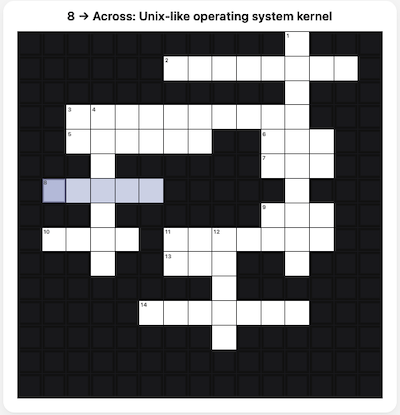
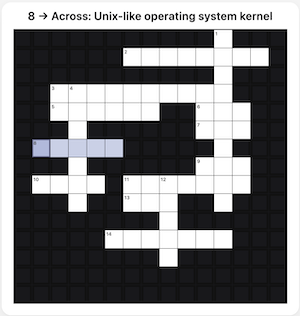
CSS index page

Changed region(s): [[0.03, 0.0285, 0.96, 0.9684]]

diff --git a/crossword/static/crossword/indexStyle.css b/crossword/static/crossword/indexStyle.css
@@ -34,7 +34,6 @@ main {
 }
 
 .hero {
-  line-height: 1.5;
   text-align: left;
 }
 
@@ -47,14 +46,13 @@ main {
     font-size: clamp(1.9rem, 3.1vw, 2.3rem);
     line-height: 1.2;
     font-weight: 600;
-    margin-bottom: var(--space-md);
+    margin-bottom: 1.5rem;
 }
 
 .hero p.subheadline {
   font-size: clamp(1.1rem, 1.4vw, 1.2rem);
   color: #4b5563;
-  line-height: 1.5;
-  margin-bottom: var(--space-lg);
+  margin-bottom: 1.5rem;
 }
 
 .subheadline .underline {
@@ -64,8 +62,7 @@ main {
 .hero-meta {
   display: flex;
   flex-direction: column;
-  gap: var(--space-xs);
-
+  gap: var(--space-sm);
   font-size: 1.05rem;
 }
 
@@ -87,8 +84,7 @@ main {
 
 .cta {
   display: inline-block;
-  margin-top: 0.75rem;
-  margin-bottom: 0.5rem;
+  margin: 1.2rem 0;
 
   padding: 0.45rem 0.8rem;
   border-radius: 8px;
@@ -103,29 +99,28 @@ main {
   background: #1f2937;
 }
 
-.hero-figure {
-  margin: 0;
-  padding: 0;
+/* Link wraps screenshot. Reason link has clamp and screenshot has 100% width*/
+.hero-link {
+  display: block;
+  width: 300px;
 }
 
-.hero-figure .hero-screenshot {
+.hero-screenshot {
   display: block;
-  width: clamp(200px, 35%, 400px);
+  width: 100%;
   border: 1px solid #e5e7eb;
   border-radius: 6px;
   box-shadow: 0 0 10px rgba(0,0,0,0.05);
-  margin-top: 0.75rem;
   transition: transform 0.15s ease, filter 0.15s ease;
 }
 
 .hero-screenshot:hover {
-  transform: scale(1.02);
+  transform: scale(1.03);
 }
 
 .puzzle-list {
   padding: 1rem 0;
   border-bottom: 1px solid #e5e7eb;
-  line-height: 1.5;
 }
 
 .puzzle-list h2 {
@@ -147,6 +142,7 @@ main {
 
   text-decoration: none;
   color: inherit;
+  padding: .5rem 0;
 }
 
 .puzzle-list a:hover {

diff --git a/crossword/templates/crossword/index.html b/crossword/templates/crossword/index.html
@@ -24,12 +24,9 @@
               {% if latest_puzzle %}
               <a href="{% url 'puzzle' latest_puzzle.id %}" class="cta" aria-label="Solve latest puzzle">Solve latest puzzle</a>
 
-              <figure class="hero-figure">
-                <a href="{% url 'puzzle' latest_puzzle.id %}" aria-label="Solve the latest puzzle">
+                <a href="{% url 'puzzle' latest_puzzle.id %}" aria-label="Solve the latest puzzle" class="hero-link">
                   <img src="{% static 'crossword/img/sample-board.png' %}" alt="Solve the latest crossword puzzle" class="hero-screenshot">
                 </a>
-              </figure>
-              
               {% endif %}
             </section>
 
